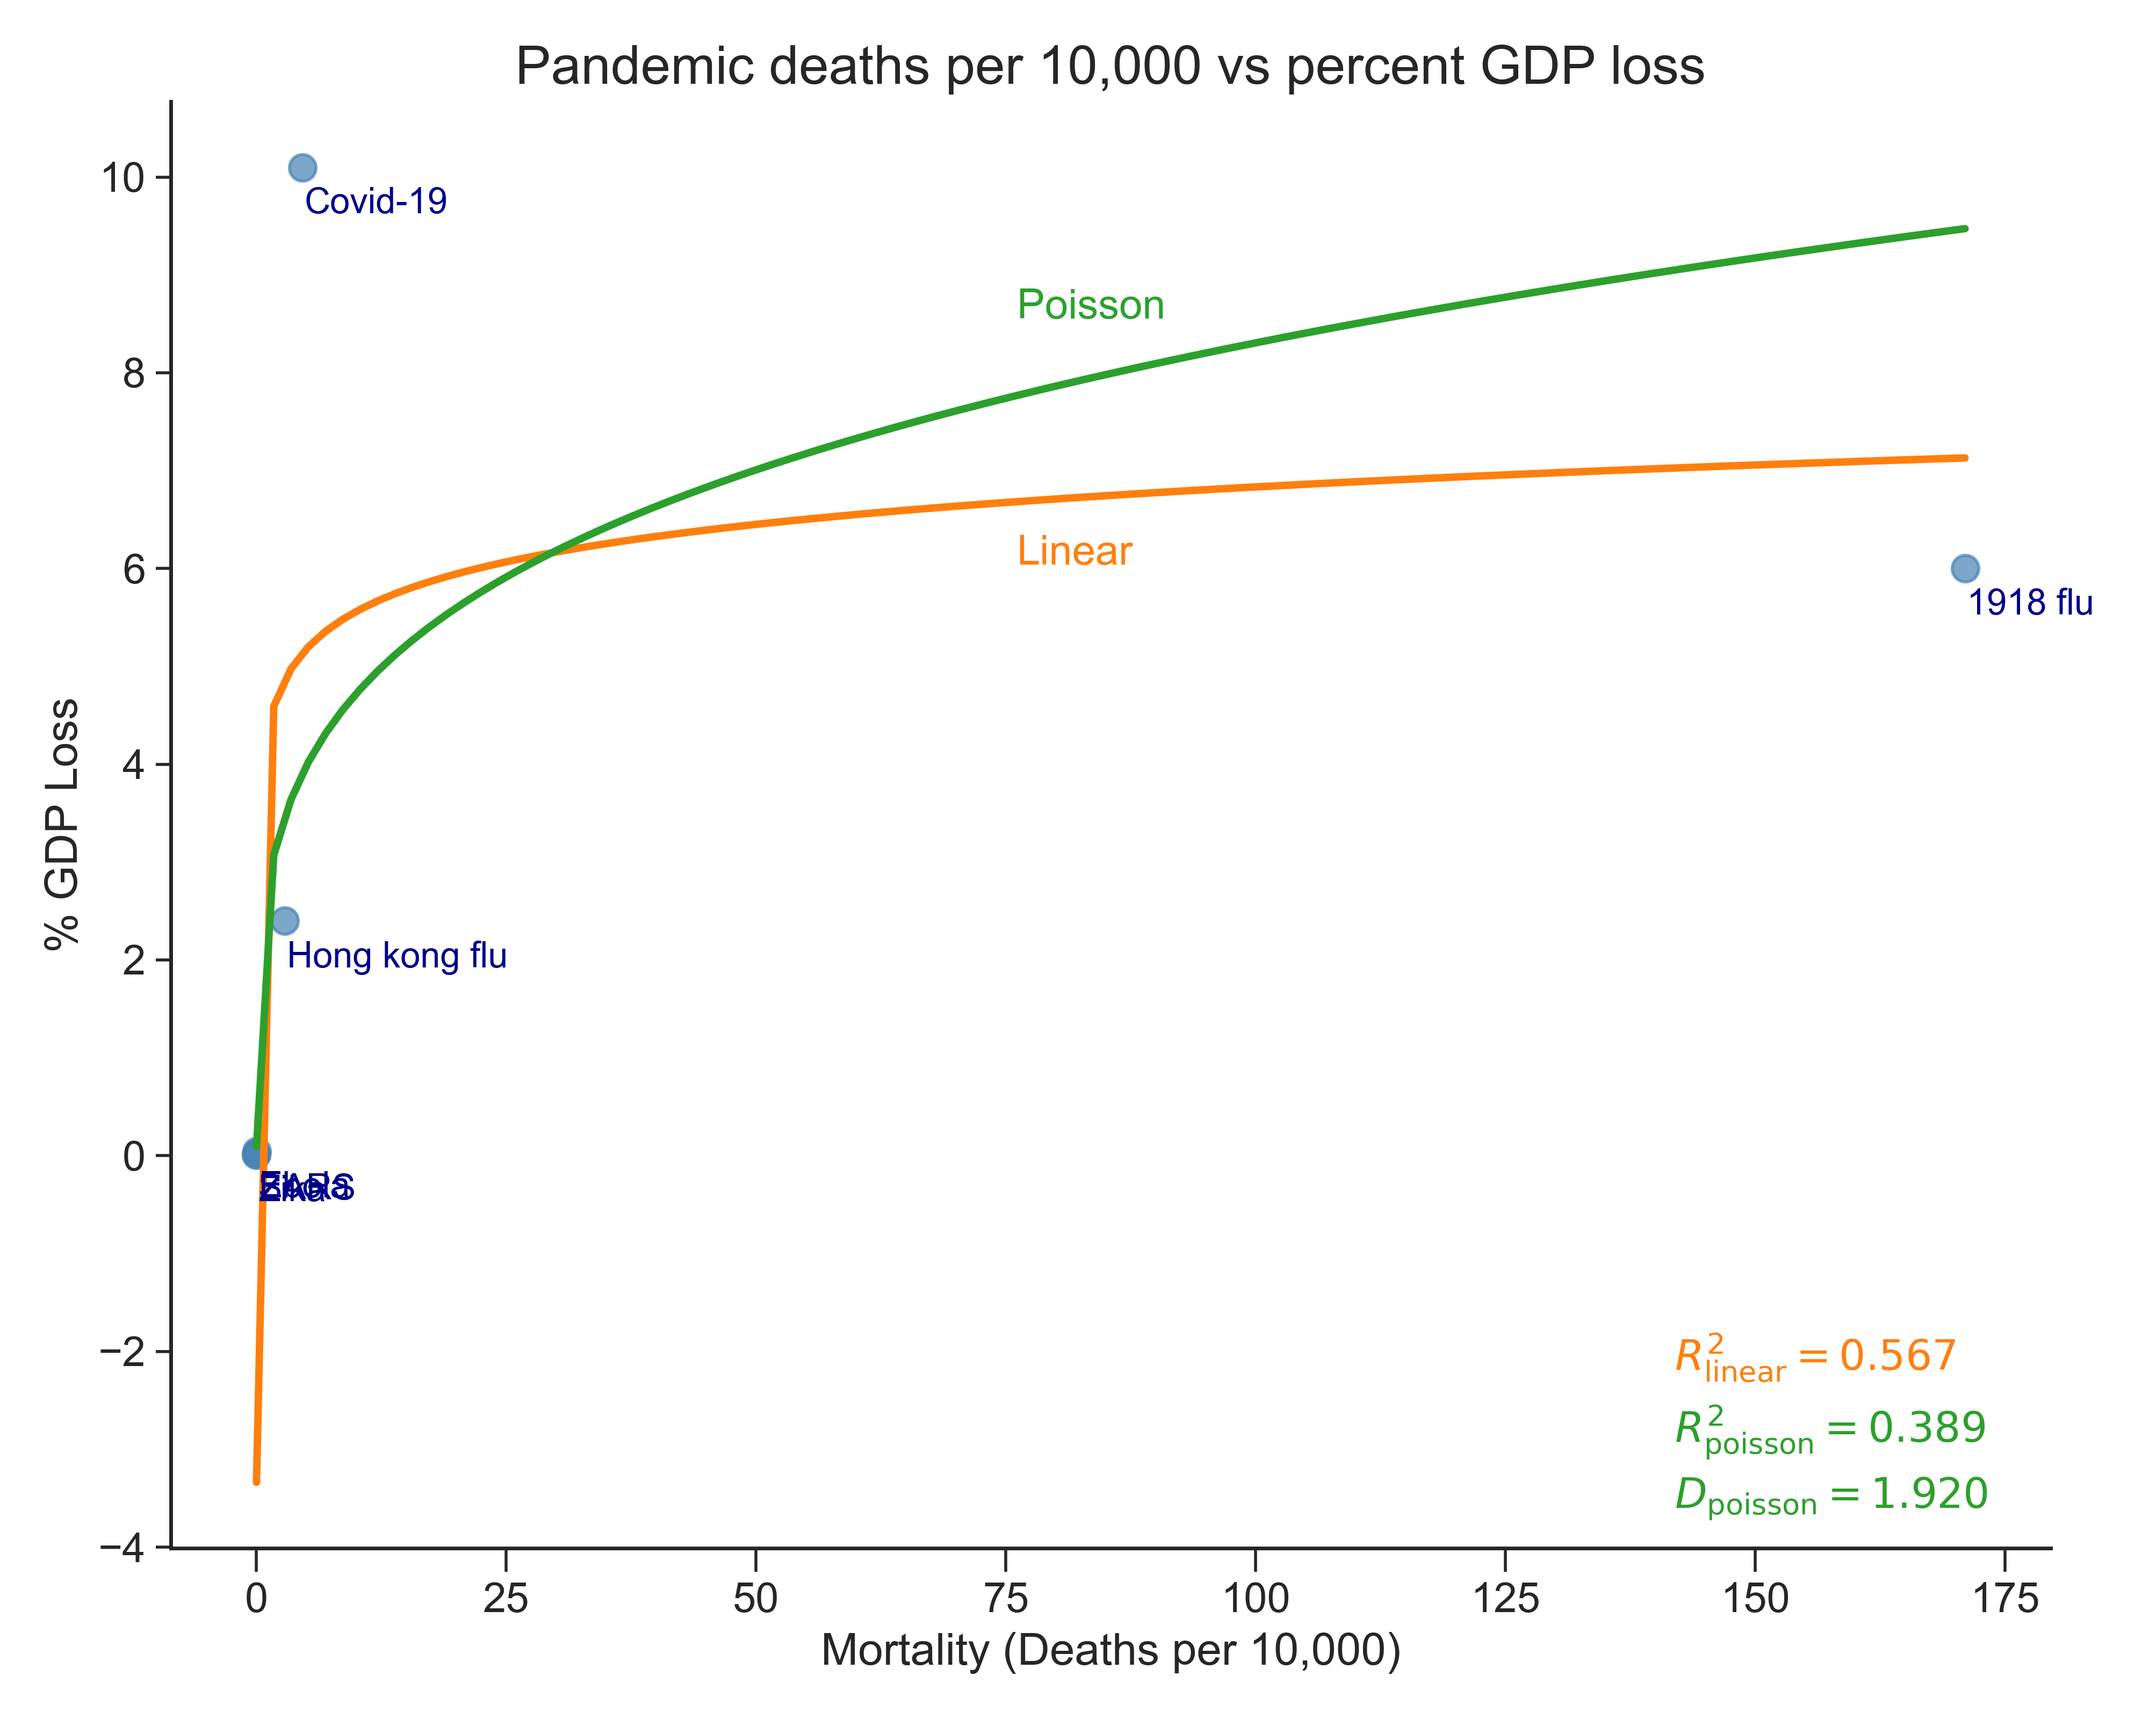
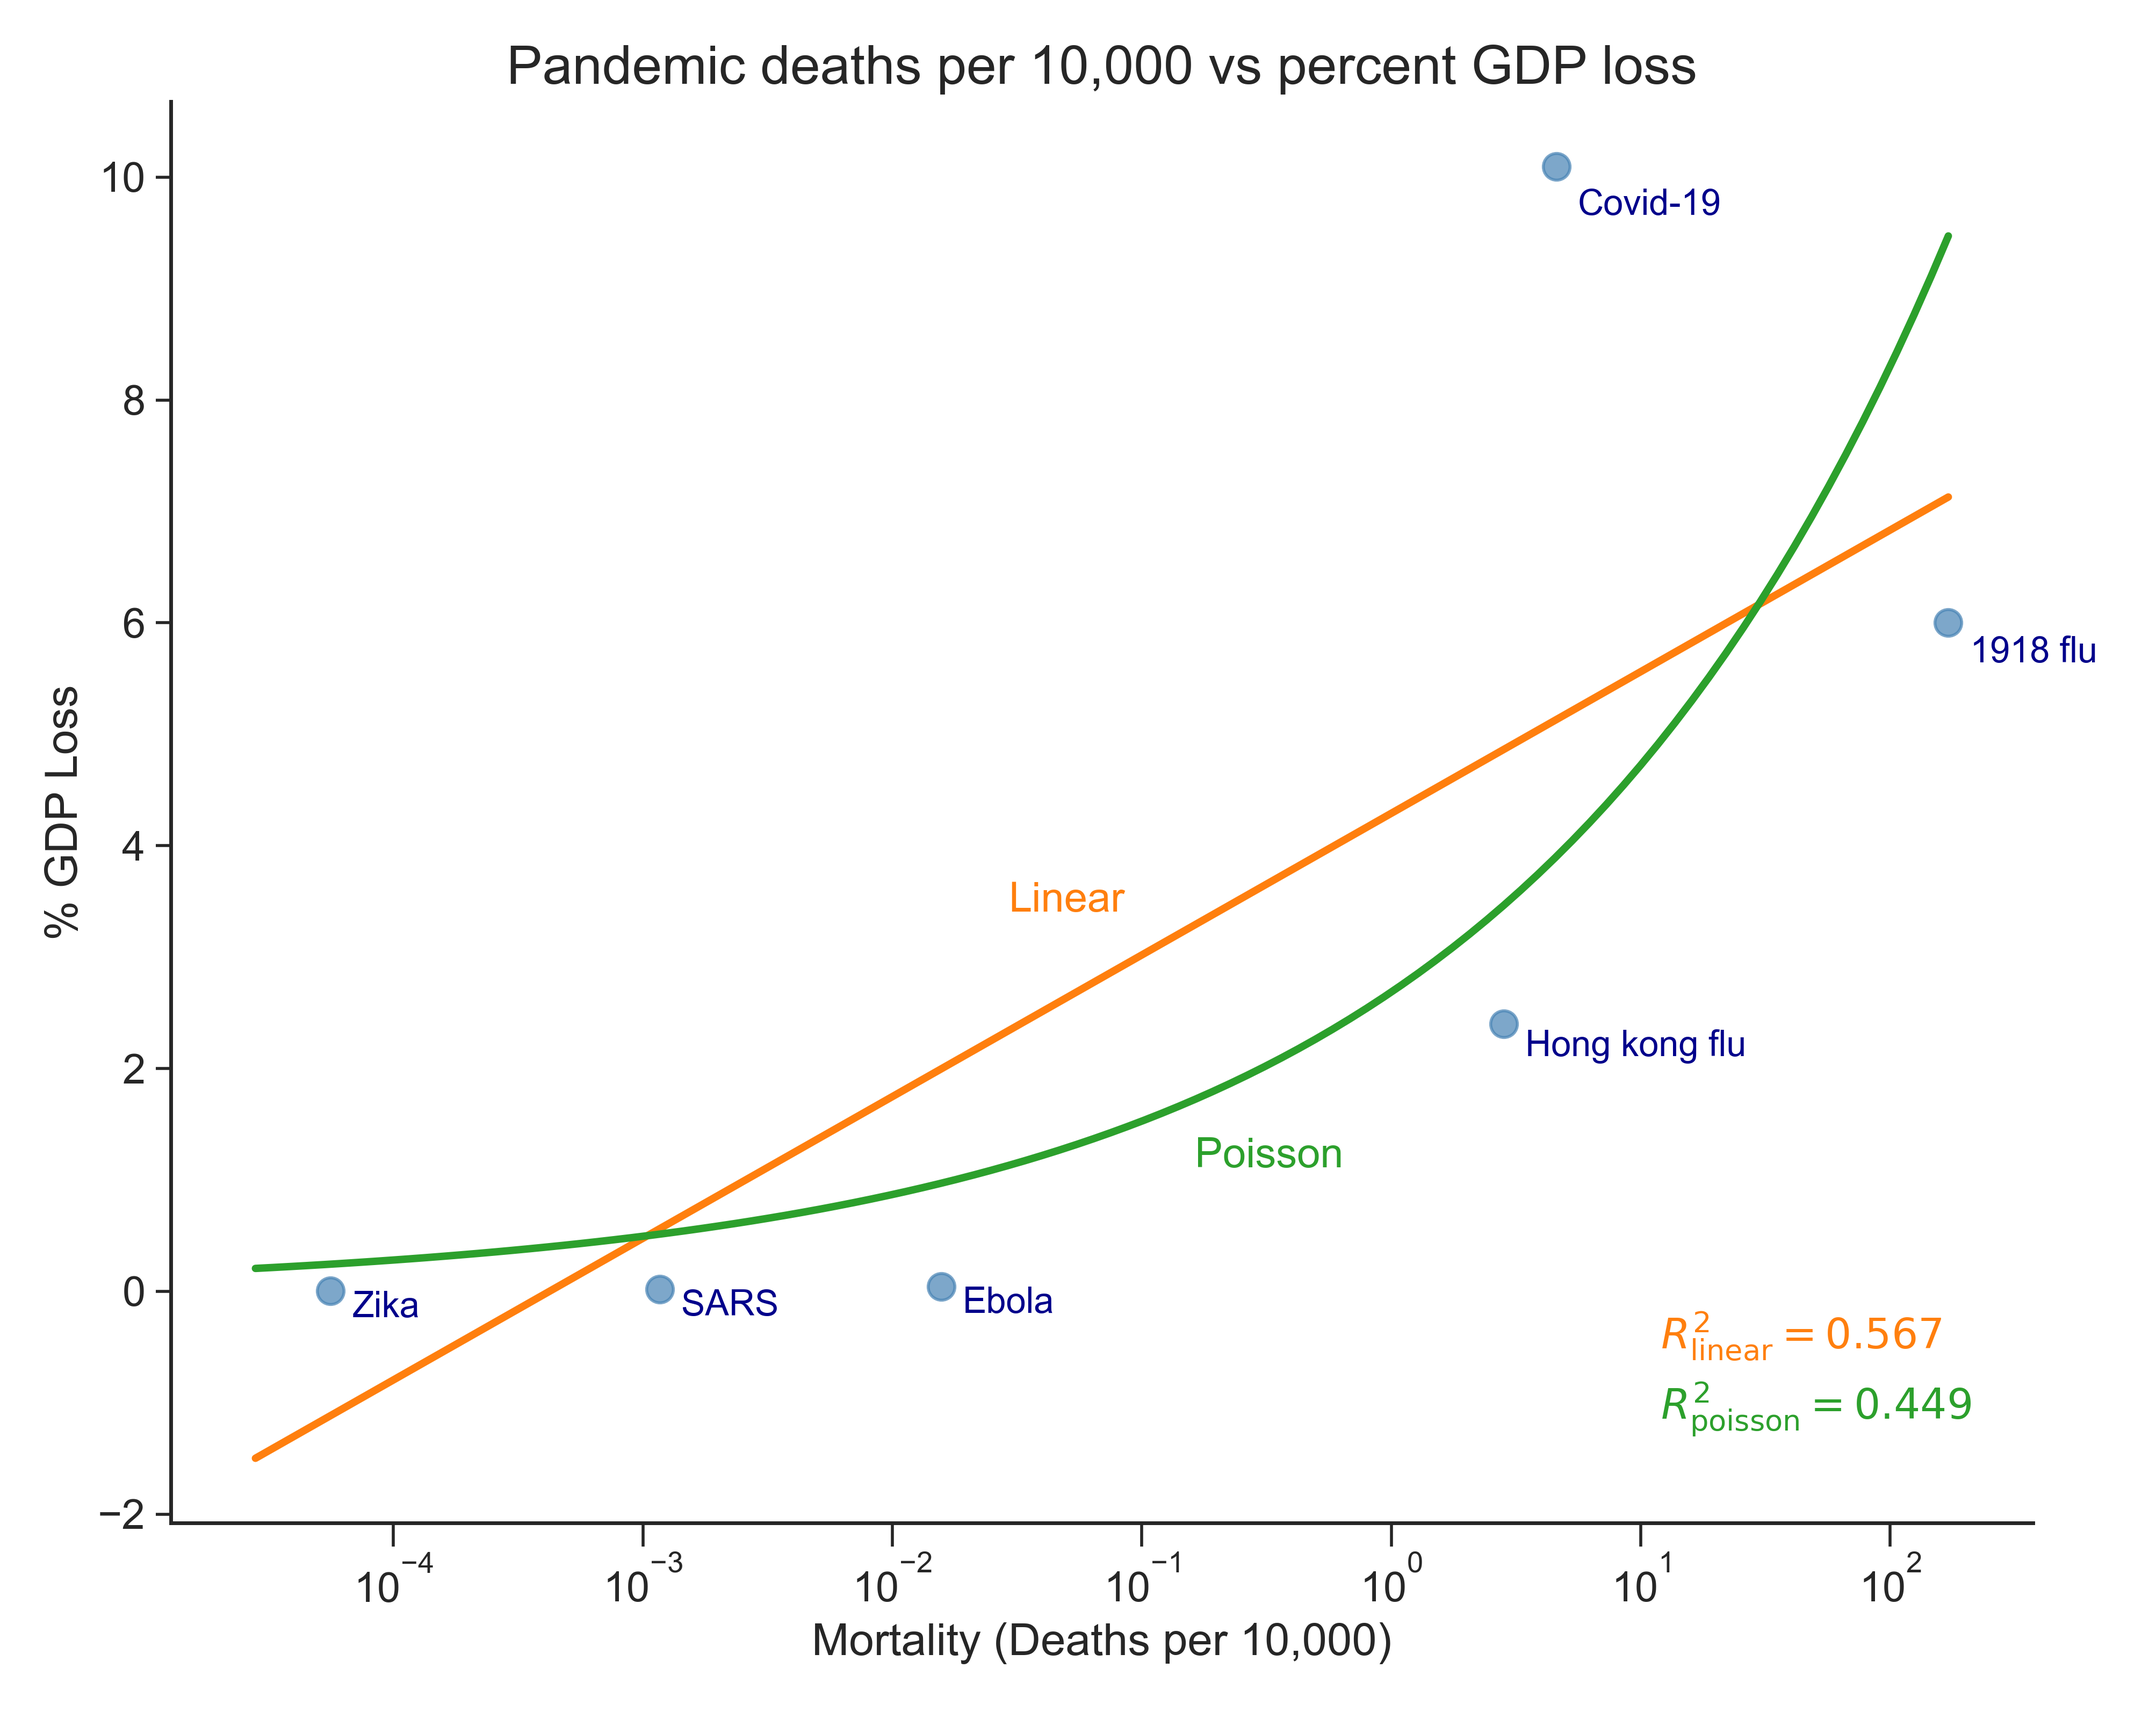
add mcfadden pseudo r2

diff --git a/pandemic-loss-modeling/scripts/fit_econ_loss_models.py b/pandemic-loss-modeling/scripts/fit_econ_loss_models.py
@@ -3,10 +3,9 @@ import numpy as np
 import pandas as pd
 import yaml
 import matplotlib.pyplot as plt
-import statsmodels.api as sm
-from sklearn.base import BaseEstimator
+from scipy.special import gammaln
 from sklearn.linear_model import LinearRegression, PoissonRegressor
-from sklearn.metrics import r2_score, mean_poisson_deviance
+from sklearn.metrics import r2_score, log_loss
 
 
 # Set a consistent styling for academic figures
@@ -51,6 +50,19 @@ if __name__ == "__main__":
     pm.fit(X, y)
 
     # ------ Plot models -----------------------------------
+
+
+
+    # McFadden's Pseudo R^2
+    def mcf_pseudo_r2(y, y_pred):
+        # Log-likelihood of the fitted model
+        ll_model = np.sum(y * np.log(y_pred) - y_pred - gammaln(y + 1))
+    
+        # Log-likelihood of the null model (mean response)
+        mean_response = np.mean(y)
+        ll_null = np.sum(y * np.log(mean_response) - mean_response - gammaln(y + 1))
+
+        return 1 - (ll_model / ll_null)
     
     # Set colors
     col_linear = '#ff7f0e'
@@ -58,9 +70,7 @@ if __name__ == "__main__":
 
     # Calculate goodness of fit scores
     r2_linear = r2_score(y, lm.predict(X))
-    # d2_linear = mean_poisson_deviance(y, lm.predict(X)) Not computable due to exiting valid domain
-    r2_poisson = r2_score(y, pm.predict(X))
-    d2_poisson = mean_poisson_deviance(y, pm.predict(X))
+    r2_poisson = mcf_pseudo_r2(y, pm.predict(X))
 
     # Plot data 
     fig, ax = plt.subplots(figsize=(10, 8))
@@ -68,8 +78,8 @@ if __name__ == "__main__":
 
     # Annotate each point with the disease name
     for i, disease in enumerate(econ_loss_clean['disease']):
-        ax.text(econ_loss_clean['mortality_smu'].iloc[i] + 0.2,
-                econ_loss_clean['pct_gdp_loss'].iloc[i] - 0.2, 
+        ax.text(econ_loss_clean['mortality_smu'].iloc[i] * 1.22,
+                econ_loss_clean['pct_gdp_loss'].iloc[i] * 0.98, 
                 disease, 
                 fontsize=12,
                 ha='left',
@@ -77,11 +87,12 @@ if __name__ == "__main__":
                 color='darkblue')
 
     # Fitted line for linear scale
-    x_range = np.linspace(1e-6, econ_loss_clean['mortality_smu'].max(), 100).reshape(-1, 1)
-    y_pred_linear = lm.predict(np.log(x_range))
-    y_pred_poisson = pm.predict(np.log(x_range))
-    ax.plot(x_range, y_pred_linear, linewidth=2.5, color=col_linear, label='Linear')
-    ax.plot(x_range, y_pred_poisson, linewidth=2.5, color=col_poisson, label='Poisson')
+    log_xrange = np.linspace(np.log(econ_loss_clean['mortality_smu'].min() / 2), np.log(econ_loss_clean['mortality_smu'].max()), 100).reshape(-1, 1)
+    y_pred_linear = lm.predict(log_xrange)
+    y_pred_poisson = pm.predict(log_xrange)
+    ax.plot(np.exp(log_xrange), y_pred_linear, linewidth=2.5, color=col_linear, label='Linear')
+    ax.plot(np.exp(log_xrange), y_pred_poisson, linewidth=2.5, color=col_poisson, label='Poisson')
+    ax.set_xscale('log')
 
     # Labels and title
     ax.set_title(r"Pandemic deaths per 10,000 vs percent GDP loss")
@@ -91,19 +102,14 @@ if __name__ == "__main__":
     ax.spines['right'].set_visible(False)
 
     # Add R^2 and Deviance values to the plot
-    ## Linear model
     ax.text(0.80, 0.15, rf"$R^2_{{\mathrm{{linear}}}} = {r2_linear:.3f}$", 
             transform=ax.transAxes, verticalalignment='top', color=col_linear)
-
-    ## Poisson model
     ax.text(0.80, 0.10, rf"$R^2_{{\mathrm{{poisson}}}} = {r2_poisson:.3f}$", 
-            transform=ax.transAxes, verticalalignment='top', color=col_poisson)
-    ax.text(0.80, 0.05, rf"$D_{{\mathrm{{poisson}}}} = {d2_poisson:.3f}$", 
             transform=ax.transAxes, verticalalignment='top', color=col_poisson)
     
     # Add line labels
-    ax.text(0.45, 0.68, "Linear", transform=ax.transAxes, color=col_linear)
-    ax.text(0.45, 0.85, "Poisson", transform=ax.transAxes, color=col_poisson)
+    ax.text(0.45, 0.43, "Linear", transform=ax.transAxes, color=col_linear)
+    ax.text(0.55, 0.25, "Poisson", transform=ax.transAxes, color=col_poisson)
 
     # Save the plot
     plt.tight_layout()
@@ -116,7 +122,7 @@ if __name__ == "__main__":
         'family': 'linear',
         'params': {
             'intercept': float(lm.intercept_),
-            'coef': [float(beta) for beta in lm.coef_]
+            'coefs': [float(beta) for beta in lm.coef_]
         }
     }
 
@@ -128,7 +134,7 @@ if __name__ == "__main__":
         'family': 'poisson',
         'params': {
             'intercept': float(pm.intercept_),
-            'coef': [float(beta) for beta in lm.coef_]
+            'coefs': [float(beta) for beta in lm.coef_]
         }
     }
 

diff --git a/pandemic-loss-modeling/scripts/fit_distributions.py b/pandemic-loss-modeling/scripts/fit_distributions.py
@@ -95,7 +95,6 @@ if __name__ == "__main__":
 
     all_risk_dur_params = {
         'dist_family': "Lognormal",
-        'max_duration': float(df_all['duration'].max()), # With HIV/AIDS this is going to get us a massive number
         'params': {
             'mu': float(np.log(params_all_risk[2])),
             'sigma': float(params_all_risk[0])
@@ -104,7 +103,6 @@ if __name__ == "__main__":
 
     resp_dur_params = {
         'dist_family': "Lognormal",
-        'max_duration': float(df_resp['duration'].max()), # With HIV/AIDS this is going to get us a massive number
         'params': {
             'mu': float(np.log(params_resp[2])),
             'sigma': float(params_resp[0])
